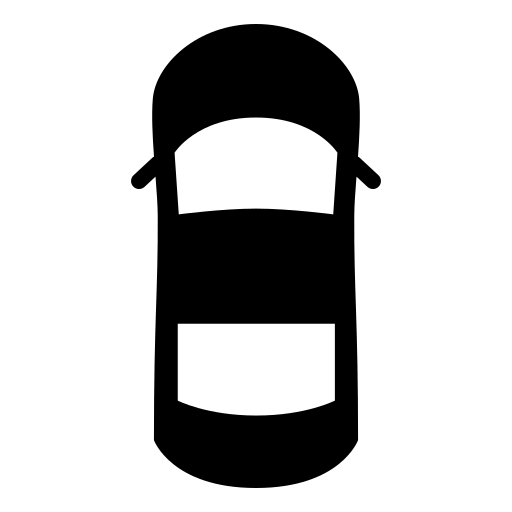
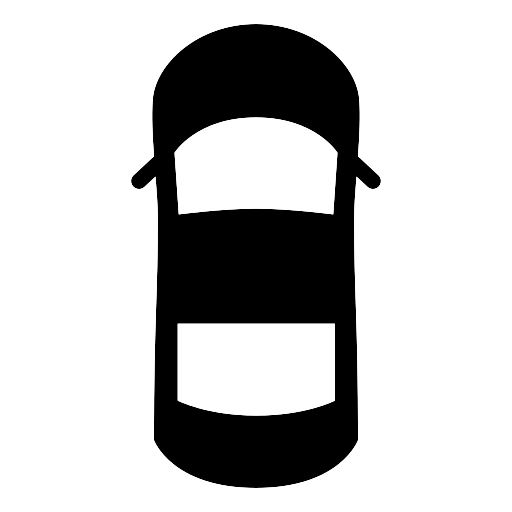
Fixed car rotation(still looks off when coming to directions)

diff --git a/Licenta_v1/wwwroot/js/map_show_delivery.js b/Licenta_v1/wwwroot/js/map_show_delivery.js
@@ -98,24 +98,50 @@
             var carIcon = L.icon({
                 iconUrl: '/Images/car.png', // URL iconita masina
                 iconSize: [32, 32],
-                iconAnchor: [16, 16]
+                iconAnchor: [16, 16],
             });
             var userMarker; // Marker-ul pentru pozitia curenta a userului
 
-            // Functie care incearca sa obtina pozitia userului continuu
+
+            // ************************************************** - DE VERIFICAT
+
+            // Functie sa calculez bearing-ul intre doua coordonate
+            function calculateBearing(lat1, lng1, lat2, lng2) {
+                const lat1Rad = lat1 * Math.PI / 180;
+                const lat2Rad = lat2 * Math.PI / 180;
+                const lngDifRad = (lng2 - lng1) * Math.PI / 180;
+                const y = Math.sin(lngDifRad) * Math.cos(lat2Rad);
+                const x = Math.cos(lat1Rad) * Math.sin(lat2Rad) - Math.sin(lat1Rad) * Math.cos(lat2Rad) * Math.cos(lngDifRad);
+                const result = Math.atan2(y, x);
+                return (result * 180 / Math.PI + 360) % 360;
+            }
+
+            // salvez si eu ultima pozitie ca sa fac bearing-ul dupa(sa arat incotro merge userul cu iconita)
+            let lastPosition = null;
+
             function watchUserPosition() {
                 navigator.geolocation.watchPosition(function (position) {
-                    console.log("Pozitia - ", position);
-                    var lat = position.coords.latitude;
-                    var lng = position.coords.longitude;
-                    var latlng = [lat, lng];
+                    console.log("Pozitia:", position);
+                    const lat = position.coords.latitude;
+                    const lng = position.coords.longitude;
+                    const latlng = [lat, lng];
+
+                    // Calculez bearing-ul doar dacă există o poziție anterioară
+                    let bearing = 0;
+                    if (lastPosition) {
+                        bearing = calculateBearing(lastPosition[0], lastPosition[1], lat, lng);
+                    }
+                    lastPosition = latlng; // actualizează ultima poziție
+
+                    // Daca markerul nu exista, il fac eu, altfel doar actualizez pozitia + rotatia
                     if (!userMarker) {
-                        userMarker = L.marker(latlng, { icon: carIcon, rotationAngle: 0 }).addTo(window.map)
+                        userMarker = L.marker(latlng, { icon: carIcon, rotationAngle: bearing }).addTo(window.map)
                             .bindPopup("My current position");
                     } else {
                         userMarker.setLatLng(latlng);
+                        userMarker.setRotationAngle(bearing);
                     }
-                    // Centreaza harta pe pozitia userului
+                    // Centrez harta pe pozitia actuala
                     window.map.panTo(latlng, { animate: true });
                 }, function (error) {
                     if (error.code === error.PERMISSION_DENIED) {
@@ -132,6 +158,8 @@
             } else {
                 console.error("Geolocation not supported on this browser.");
             }
+
+            // ************************************************** - DE VERIFICAT
 
             displayCurrentSegment(); // Afisez segmentul curent din livrare
 

diff --git a/Licenta_v1/wwwroot/css/site.css b/Licenta_v1/wwwroot/css/site.css
@@ -214,3 +214,11 @@ body {
         height: 300px;
     }
 }
+
+/*.flipped-car-icon {*/ /* Icon-ul masinii tre sa fie invers */
+    /*width: 32px;
+    height: 32px;
+    transform: scaleY(-1);
+    -webkit-transform: scaleY(-1);
+    -ms-transform: scaleY(-1);
+}*/
